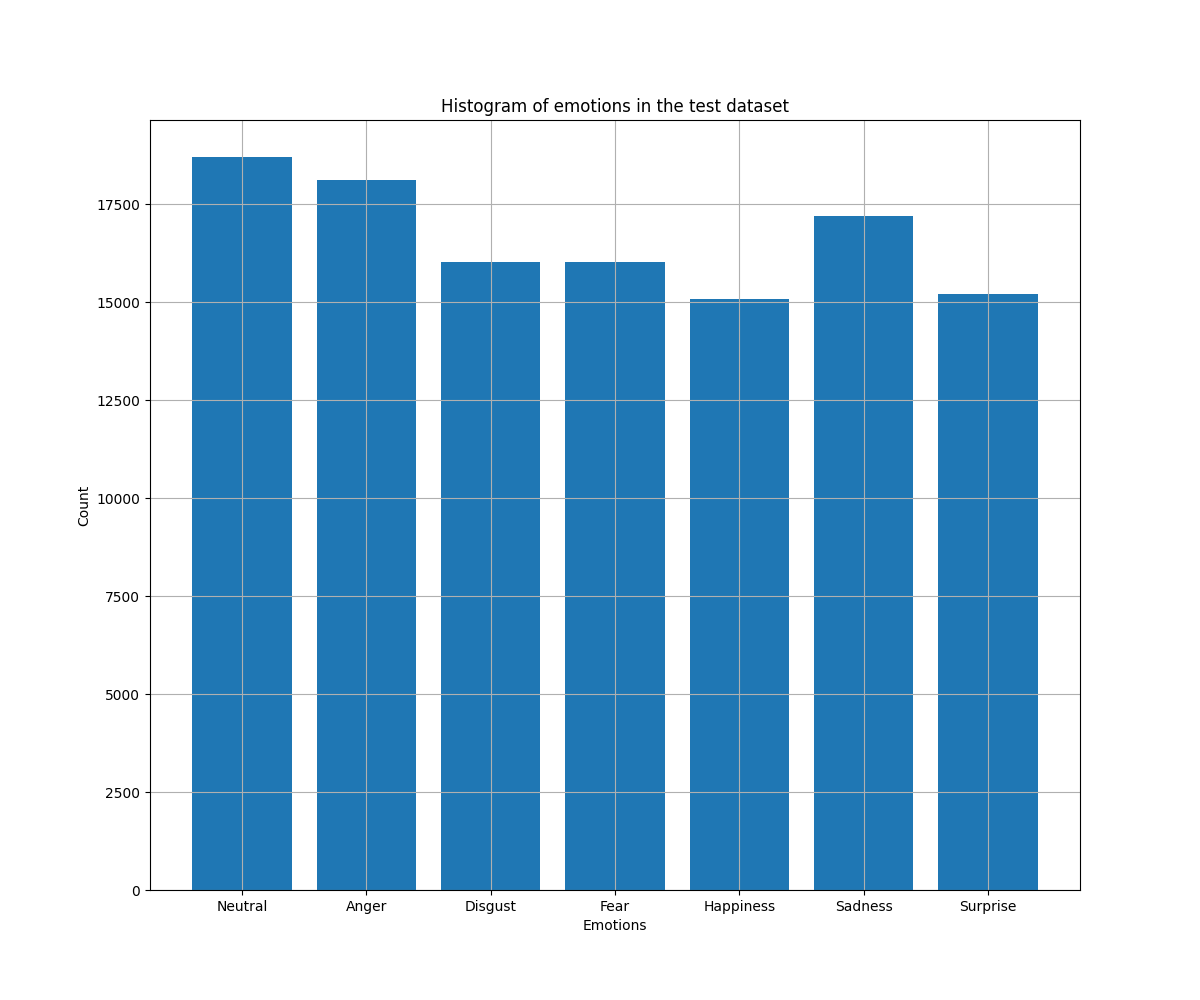
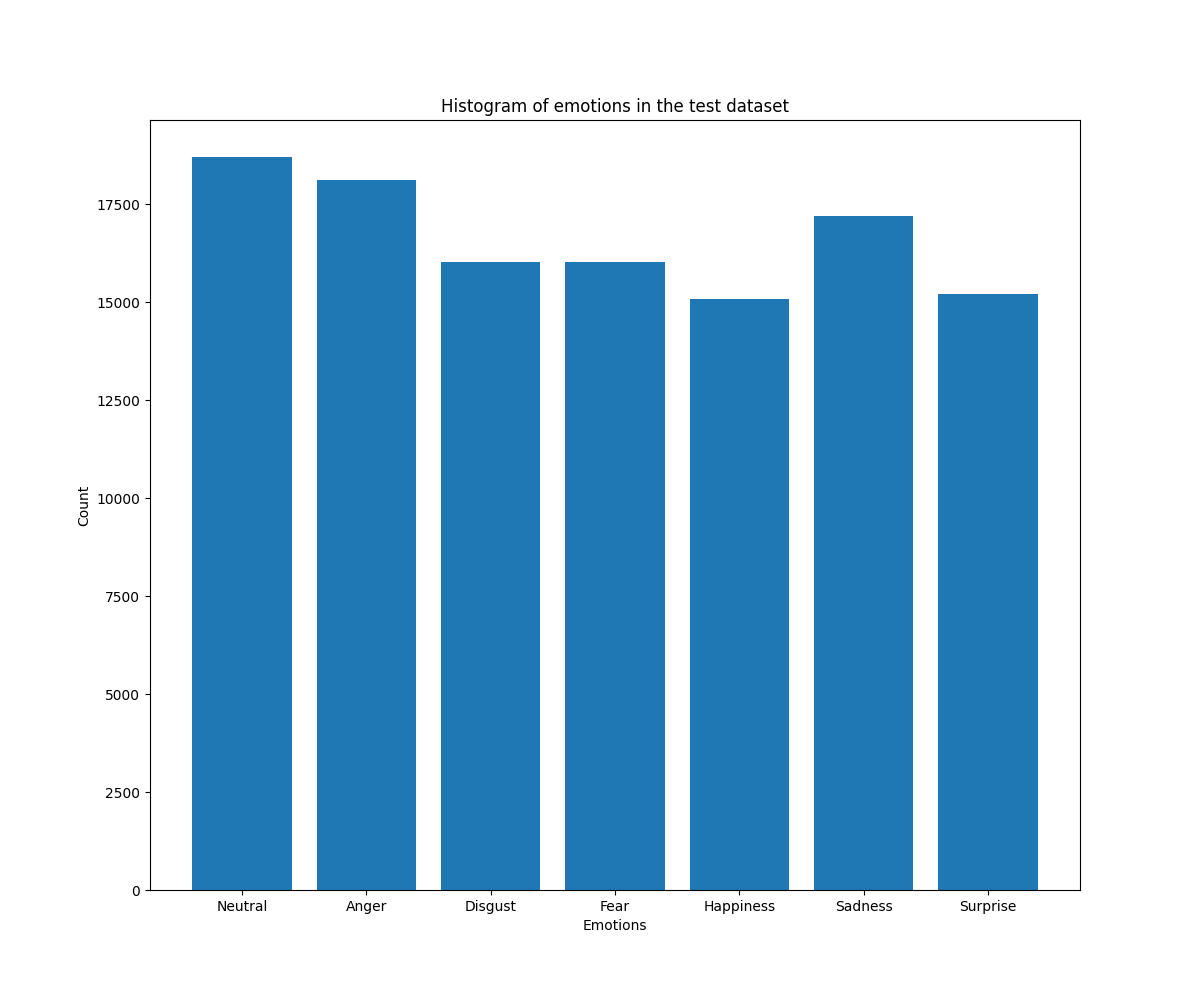
Update: improve plotter

diff --git a/plotter/plotter.py b/plotter/plotter.py
@@ -11,7 +11,6 @@ def draw_emotion_histogram(data, name):
 
     ax.set(xlabel='Emotions', ylabel='Count')
     ax.set_title('Histogram of emotions in the test dataset')
-    ax.grid(True)
     
     plt.savefig(name + '.png')
 
@@ -23,6 +22,8 @@ def draw_emotion_evaluate(data, name):
     cmap = sns.light_palette("red", as_cmap=True)
     ax = sns.heatmap(corr, cmap=cmap, annot=True, fmt='d', #vmax=3,
             square=True, linewidths=.5, cbar_kws={"shrink": .5})
+    ax.set_xlabel('Predicted label', fontsize=16)
+    ax.set_ylabel('True label', fontsize=16)
     plt.savefig(name + '.png')
 
 
@@ -49,6 +50,14 @@ if __name__ == '__main__':
         [0, 0, 0, 0, 0, 0, 0]
     ]
     
-    draw_emotion_histogram(train, 'train_hist')
-    draw_emotion_histogram(test, 'test_hist')
-    draw_emotion_evaluate(test_eval, 'test_evaluation')
+    c = 0
+    n = 0
+    for i in [0,4,5]:
+        c += test_eval[i][i]
+        n += test[i]
+    print(c/n)
+    
+    # draw_emotion_histogram(train, 'train_hist')
+    # draw_emotion_histogram(test, 'test_hist')
+    # test_eval = np.transpose(test_eval)
+    # draw_emotion_evaluate(test_eval, 'test_evaluation')
